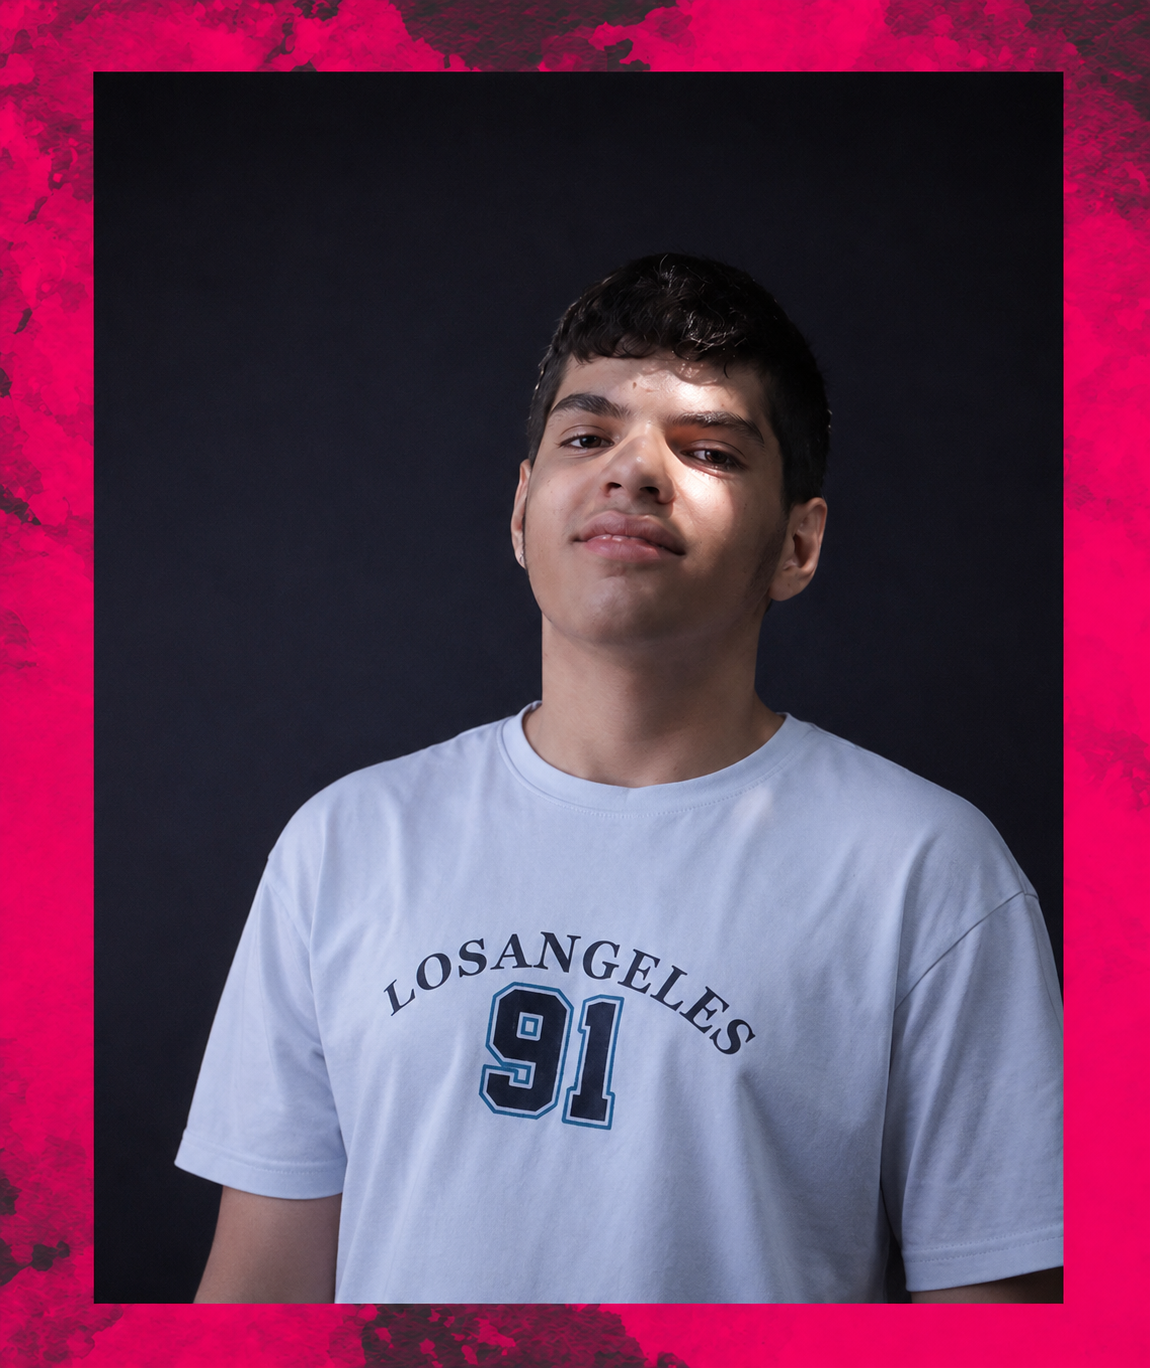
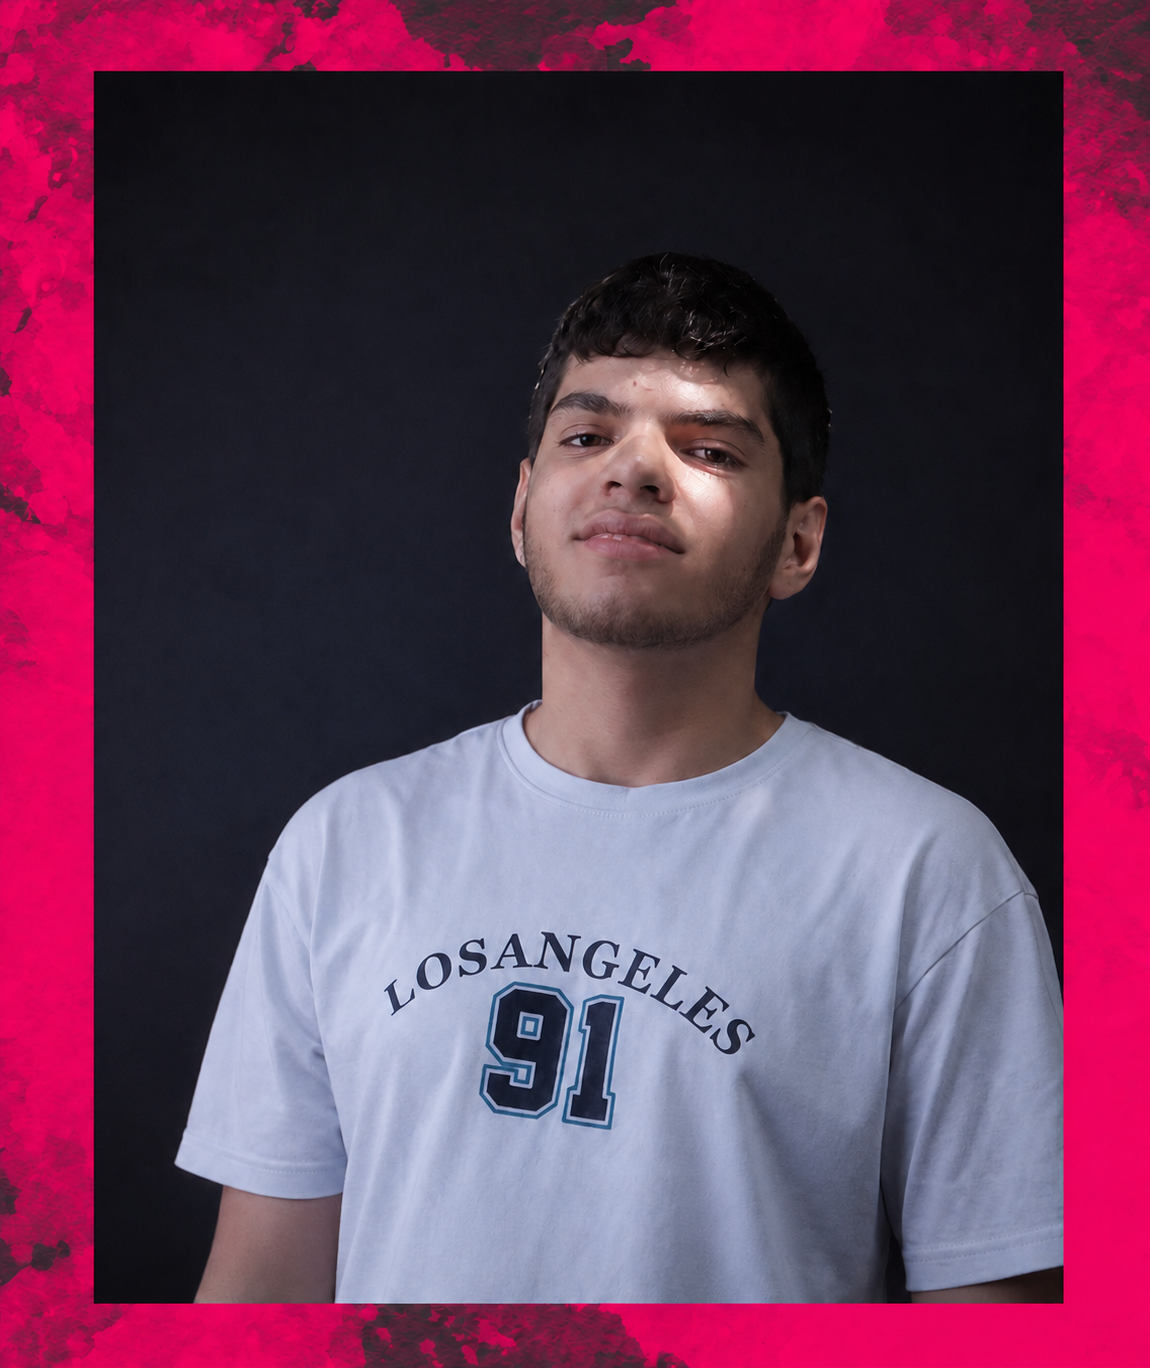
new

diff --git a/index.html b/index.html
@@ -79,20 +79,43 @@
     </nav>
 
     <!-- HEADER -->
+
     <header class="home jumbotron" data-paroller-factor="0.5" data-paroller-factor-xs="0.2"
         data-paroller-factor-sm="-0.2" id="home" data-scroll-index="0">
         <div class="container">
             <div class="row align-items-center">
                 <div class="col-lg-12">
                     <div class="home-content mt-md-5 mt-sm-5 text-center">
-                        <h1 class="mb-3" data-en="Hi, I’m Mahdi Yar" data-fa="سلام، من مهدی یار هستم">Hi, I’m Mahdi Yar</h1>
-                        <h4 class="mb-5" data-en="Backend Developer with Django<br>Sometimes I work with Photoshop too" data-fa="توسعهدهنده بکاند با جنگو<br>گاهی اوقات با فتوشاپ هم کار میکنم">Backend Developer with Django<br>Sometimes I work with Photoshop too</h4>
-                        <a href="#contact" class="y-button" data-en="HIRE ME" data-fa="همکاری با من">HIRE ME</a>
+
+                        <h1 class="mb-3"
+                            data-en="Hi, I’m Mahdi Yar."
+                            data-fa="سلام، من مهدی یار هستم.">
+                            Hi, I’m Mahdi Yar.
+                        </h1>
+
+                        <h4 class="mb-5"
+                            data-en="Django & Python Backend Developer<br>Web Developer<br>UI/UX & Visual Design"
+                            data-fa="توسعهدهنده بکاند با Django و Python<br>توسعهدهنده وب<br>طراحی UI/UX و طراحی بصری">
+                            Django & Python Backend Developer<br>
+                            Web Developer<br>
+                            UI/UX & Visual Design
+                        </h4>
+
+                        <a href="#contact"
+                        class="y-button"
+                        data-en="HIRE ME"
+                        data-fa="همکاری با من"
+                        data-scroll-nav="5">
+                            HIRE ME
+                        </a>
+
                     </div>
                 </div>
             </div>
         </div>
     </header>
+
+
 
     <div id="scroll-to-top"><i class="fa fa-arrow-up fa-fw"></i></div>
 
@@ -115,9 +138,9 @@
                     <div class="about_content_box section-title">
                         <h2 class="title" data-en="Introduction About Me" data-fa="معرفی کوتاه">Introduction About Me</h2>
                         <div class="about_text">
-                            <p data-en="I’m Mahdi Yar, a backend developer with over 4 years of specialized experience in Django. My main focus is building solid APIs, managing databases, optimizing performance, and developing scalable web applications." 
-                               data-fa="من مهدی یار هستم، توسعهدهنده بکاند با بیش از ۴ سال تجربه تخصصی در جنگو. تمرکز اصلیم ساخت APIهای قوی، مدیریت دیتابیس، بهینهسازی عملکرد و توسعه وباپلیکیشنهای مقیاسپذیر است.">
-                                I’m Mahdi Yar, a backend developer with over 4 years of specialized experience in Django. My main focus is building solid APIs, managing databases, optimizing performance, and developing scalable web applications.
+                            <p data-en="I’m Mahdi Yar., a backend developer with over 4 years of specialized experience in Django. My main focus is building solid APIs, managing databases, optimizing performance, and developing scalable web applications." 
+                               data-fa="من مهدی یار. هستم، توسعهدهنده بکاند با بیش از ۴ سال تجربه تخصصی در جنگو. تمرکز اصلیم ساخت APIهای قوی، مدیریت دیتابیس، بهینهسازی عملکرد و توسعه وباپلیکیشنهای مقیاسپذیر است.">
+                                I’m Mahdi Yar., a backend developer with over 4 years of specialized experience in Django. My main focus is building solid APIs, managing databases, optimizing performance, and developing scalable web applications.
                             </p>
                             <p data-en="Occasionally I also design logos and do graphic work with Photoshop. I enjoy solving complex problems and creating reliable, practical products." 
                                data-fa="گاهی اوقات لوگو طراحی میکنم و کارهای گرافیکی با فتوشاپ انجام میدهم. از حل مسائل پیچیده و ساخت محصولات قابلاعتماد و کاربردی لذت میبرم.">
@@ -125,8 +148,11 @@
                             </p>
                         </div>
                         <div>
-                            <a href="#contact" class="y-button mr-3" data-en="HIRE ME" data-fa="همکاری با من">HIRE ME</a>
-                            <a href="#0" class="y-button" data-en="DOWNLOAD CV" data-fa="دانلود رزومه">DOWNLOAD CV</a>
+                            <a href="#portfolio" class="y-button mr-3" data-en="My projects" data-fa="پروژه های من" data-scroll-nav="3">My projects</a>
+                            <a class="y-button mt-25" href="#contact" data-en="Contact Me" data-fa="تماس با من" data-scroll-nav="5">Contact Me</a>
+                            <a class="y-button mt-25" href="#review" data-en="Client's review" data-fa="نظرات مشتریان"data-scroll-nav="4">Client's review</a>
+
+
                         </div>
                     </div>
                 </div>
@@ -389,7 +415,7 @@
     </section>
 
     <!-- TESTIMONIALS -->
-    <section class="testi-area padding">
+    <section class="testi-area padding" id="review" data-scroll-index="4" >
         <div class="container">
             <div class="row">
                 <div class="col-lg-12">
